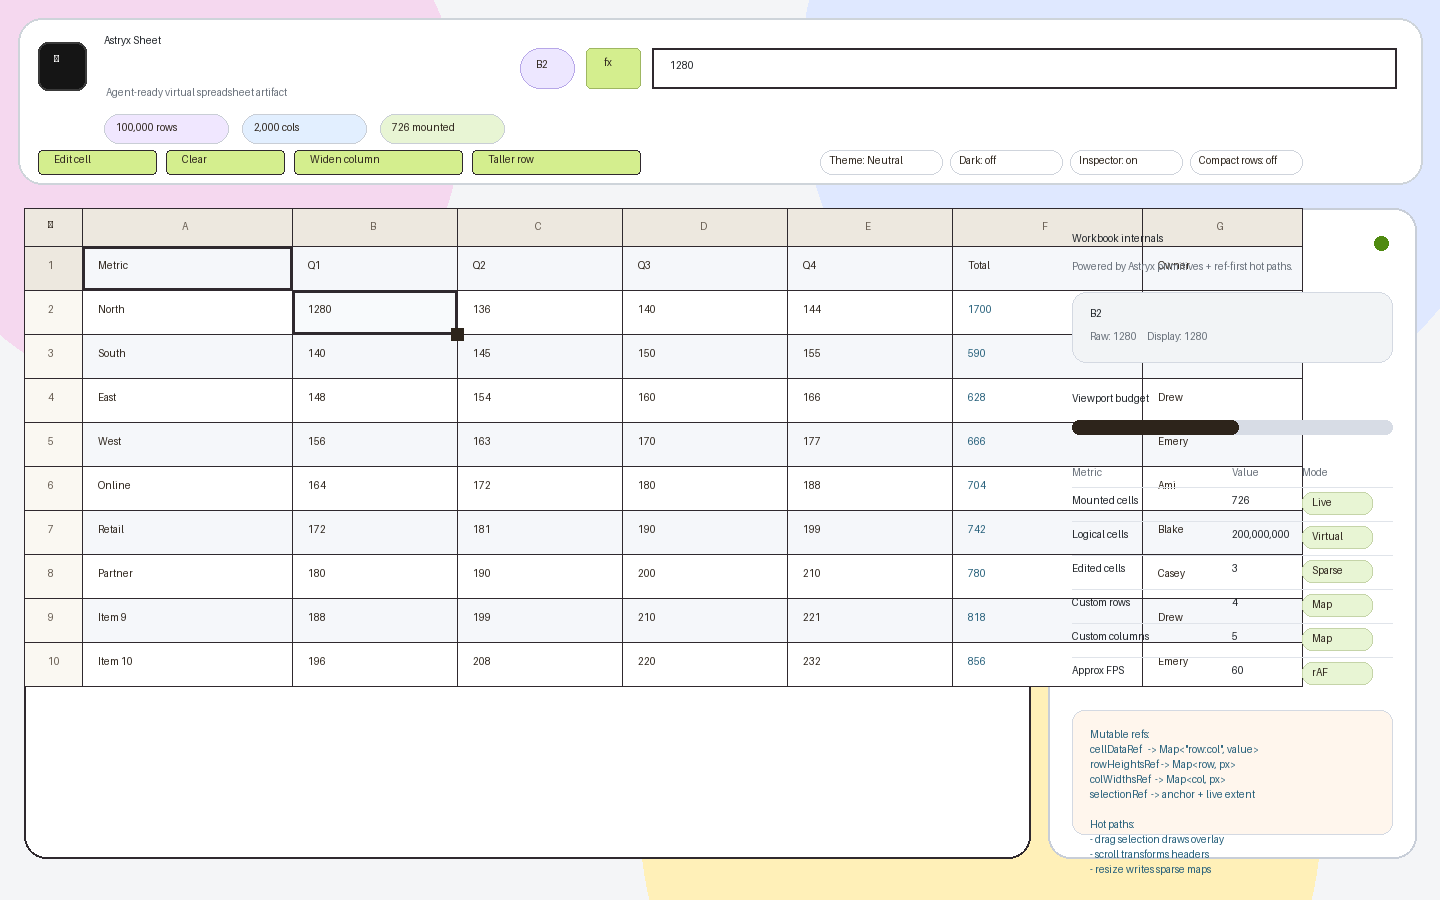
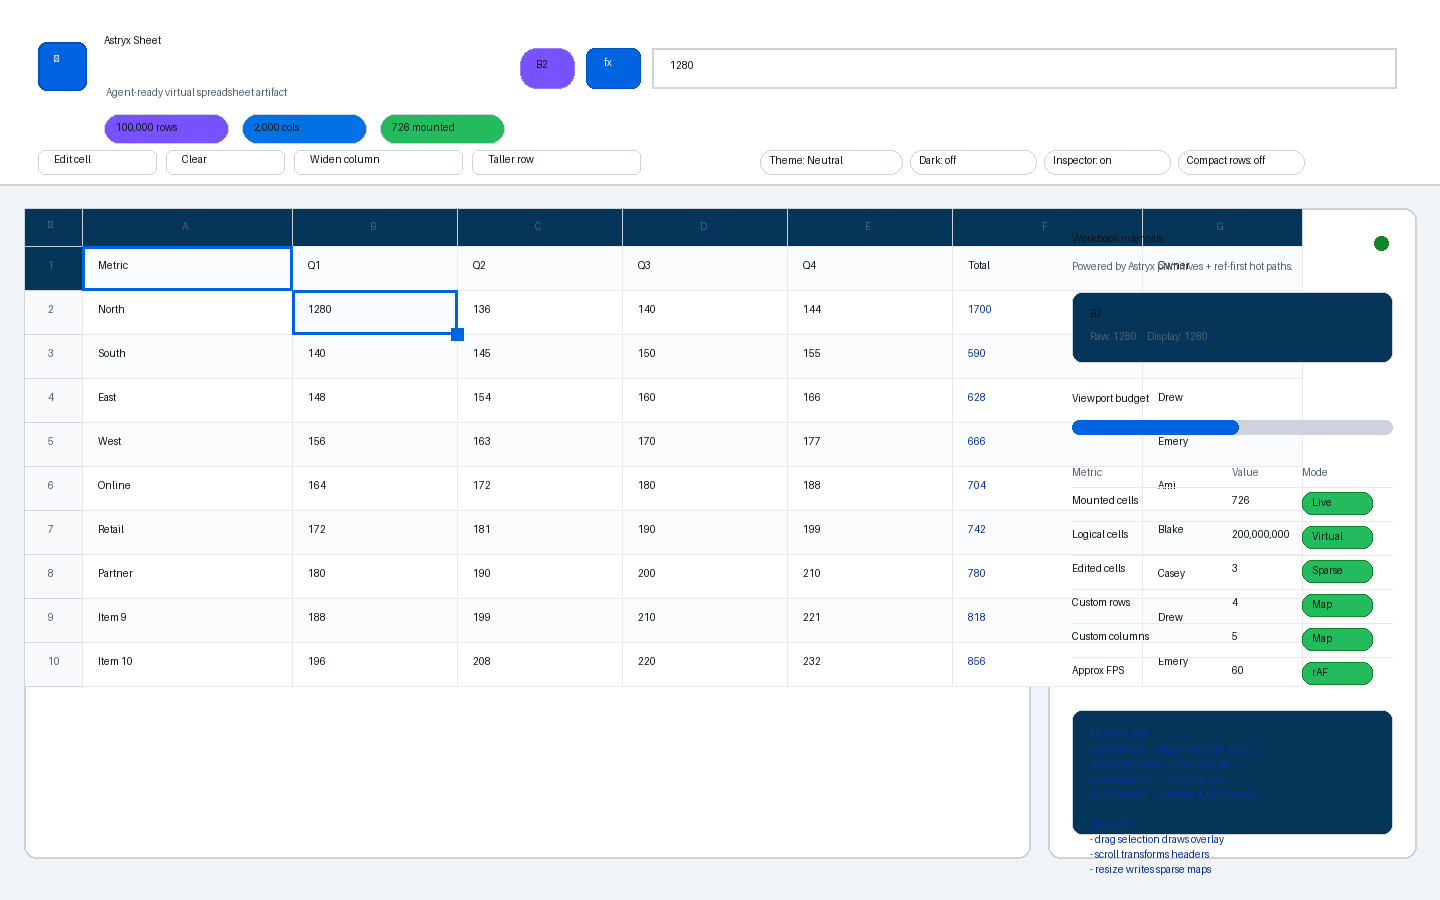
fix: make neutral theme look like default sheet

diff --git a/src/styles.css b/src/styles.css
@@ -19,12 +19,15 @@ button, input { font: inherit; }
   height: 100%;
   display: grid;
   grid-template-rows: auto 1fr;
+  background: var(--color-background-body);
+  color: var(--color-text-primary);
+}
+.app.theme-y2k {
   background:
     radial-gradient(circle at 14% 12%, color-mix(in srgb, var(--color-background-pink) 68%, transparent), transparent 30%),
     radial-gradient(circle at 80% 8%, color-mix(in srgb, var(--color-background-blue) 72%, transparent), transparent 28%),
     radial-gradient(circle at 72% 90%, color-mix(in srgb, var(--color-background-yellow) 60%, transparent), transparent 32%),
     var(--color-background-body);
-  color: var(--color-text-primary);
 }
 .topbar {
   position: relative;
@@ -35,9 +38,8 @@ button, input { font: inherit; }
   align-items: center;
   padding: var(--spacing-2) var(--spacing-3) var(--spacing-1-5);
   border-bottom: 1px solid var(--color-border-emphasized);
-  background: color-mix(in srgb, var(--color-background-surface) 86%, transparent);
-  backdrop-filter: blur(18px);
-  box-shadow: 0 1px 0 var(--color-border), 0 16px 34px color-mix(in srgb, var(--color-shadow) 55%, transparent);
+  background: var(--color-background-surface);
+  box-shadow: 0 1px 0 var(--color-border);
 }
 .brand-mark {
   width: 38px; height: 38px; display: grid; place-items: center;
@@ -46,6 +48,8 @@ button, input { font: inherit; }
   background: var(--color-accent);
   color: var(--color-on-accent);
   font-weight: 900;
+}
+.app.theme-y2k .brand-mark {
   box-shadow: 6px 6px 0 color-mix(in srgb, var(--color-background-blue) 60%, transparent);
 }
 .title { min-width: 0; }
@@ -76,14 +80,16 @@ button, input { font: inherit; }
   padding: var(--spacing-3);
 }
 .app.hide-inspector .stage { grid-template-columns: minmax(0, 1fr); }
+.app.theme-y2k .sheet-shell { border-radius: var(--radius-page) !important; box-shadow: 0 24px 70px color-mix(in srgb, var(--color-shadow) 70%, transparent); }
+.app.theme-y2k .side-panel { border-radius: var(--radius-page) !important; box-shadow: 0 18px 50px color-mix(in srgb, var(--color-shadow) 45%, transparent); }
 .sheet-shell {
   min-width: 0; min-height: 0;
   overflow: hidden;
   position: relative;
   border: 1px solid var(--color-border-emphasized) !important;
-  border-radius: var(--radius-page) !important;
+  border-radius: var(--radius-container) !important;
   background: var(--color-background-surface) !important;
-  box-shadow: 0 24px 70px color-mix(in srgb, var(--color-shadow) 70%, transparent);
+  box-shadow: var(--shadow-low);
 }
 .corner {
   position: absolute; z-index: 8; left: 0; top: 0;
@@ -141,7 +147,7 @@ button, input { font: inherit; }
 .resize-guide.col { top: 0; bottom: 0; width: 2px; }
 .resize-guide.row { left: 0; right: 0; height: 2px; }
 .cell-input { position: absolute; z-index: 12; border: 2px solid var(--color-accent); background: var(--color-background-popover); color: var(--color-text-primary); padding: 0 var(--spacing-2); outline: none; font: 12px var(--font-family-body); box-shadow: var(--shadow-high); }
-.side-panel { min-width: 0; min-height: 0; overflow: auto; display: flex; flex-direction: column; gap: var(--spacing-3); border-radius: var(--radius-page) !important; border-color: var(--color-border-emphasized) !important; box-shadow: 0 18px 50px color-mix(in srgb, var(--color-shadow) 45%, transparent); }
+.side-panel { min-width: 0; min-height: 0; overflow: auto; display: flex; flex-direction: column; gap: var(--spacing-3); border-radius: var(--radius-container) !important; border-color: var(--color-border-emphasized) !important; box-shadow: var(--shadow-low); }
 .panel-header { display: flex; justify-content: space-between; align-items: start; gap: var(--spacing-2); }
 .active-card { padding: var(--spacing-2); border: 1px solid var(--color-border); border-radius: var(--radius-container); background: var(--color-background-muted); }
 .checklist { display: grid; gap: var(--spacing-2); }

diff --git a/docs/index.html b/docs/index.html
@@ -4,8 +4,8 @@
     <meta charset="UTF-8" />
     <meta name="viewport" content="width=device-width, initial-scale=1.0" />
     <title>Astryx Sheet</title>
-    <script type="module" crossorigin src="/astryx-sheet/assets/index-BIbgziGe.js"></script>
-    <link rel="stylesheet" crossorigin href="/astryx-sheet/assets/index-CgzYSeIw.css">
+    <script type="module" crossorigin src="/astryx-sheet/assets/index-BIVVBTu3.js"></script>
+    <link rel="stylesheet" crossorigin href="/astryx-sheet/assets/index-BivxPE0_.css">
   </head>
   <body>
     <div id="root"></div>